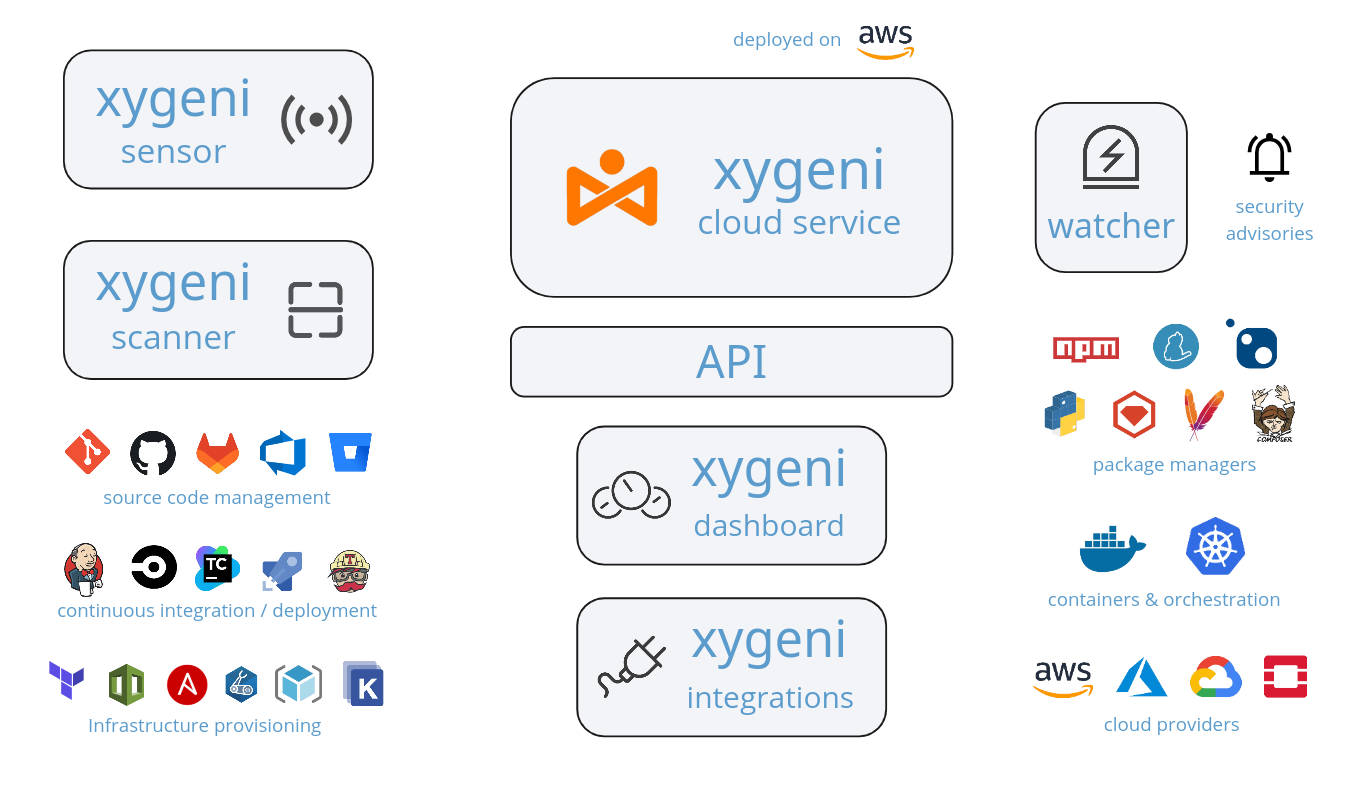
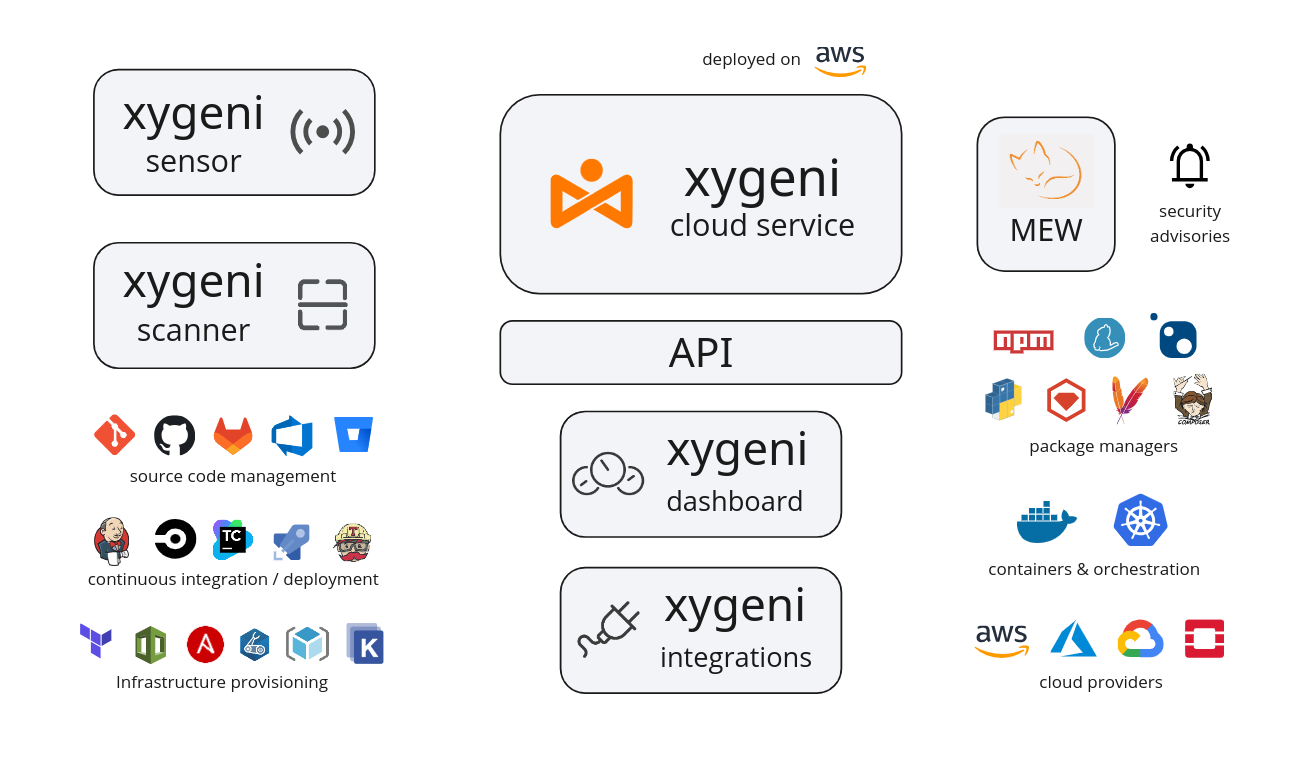
Test change to automate changing permalink code blocks in README.md, forcing checksum mismatch for all resources

diff --git a/README.md b/README.md
@@ -8,7 +8,7 @@
 
 [![documentation](https://img.shields.io/badge/documentation-blue.svg)](https://docs.xygeni.io/) 
 [![api documentation](https://img.shields.io/badge/api-reference-blue.svg)](https://api.xygeni.io/swagger-ui.html) 
-[![version](https://img.shields.io/badge/version-3.2-blue.svg)]() 
+[![version](https://img.shields.io/badge/version-4.33-blue.svg)]() 
 [![xygeni.io](https://img.shields.io/badge/website-blue.svg)](https://xygeni.io/)
 
 ## Overview
@@ -19,23 +19,21 @@ The platform protects the integrity and security of your software ecosystem thro
 
 The platform features:
 
-- **SDLC inventory**, which is automatically discovered from sources and configuration. The inventory enables us to know how assets in software infrastructure at the organization are related, for impact and risk propagation analysis: _"We can't protect what we don't know it exists."_
+- **Application Security Posture Management (ASPM)**, unifying risk management from code to cloud delivering real time visibility, prioritization, and remediation. 
 
-- **Code tampering prevention**, to protect critical code againt unintended changes done without following a strict change review process. 
+- **Code Security**, to protect critical code against malicious or unintended changes done without following a strict change review process. Vulnerabilities and malware in code are detected and prioritized. 
 
-- **Identify unusual activity**, anomalies in behaviour as evidence for a potential security breach, particularly when administering SDLC tools. Imagine a resource like a organization's private code repository: clones from unintended users or from anomalous geographic locations, adding-and-removing permissions in a short time period, deleting branch protection rules, or using admin rights to merge code without review or with failed status checks, are examples of such anomalies.
+- **Open Source Security** offers real-time monitoring of your dependencies to detect and mitigate threats before they impact your software. Both vulnerable and malicious dependencies are identified, qualified according to factors like reachability and exploitability, and prioritized for remediation.
 
-- **Software dependency analysis**, to control open source, proprietary and third-party components used throughout the software supply chain. This includes the discovery of components, detection of common attacks to the dependencies like typosquatting or dependency confusion, and extended SBOM management.
+- **Software Supply Chain Security (SSCS)** protects your CI/CD pipelines by scanning configuration files, build scripts, and CI job definitions. The software infrastructure, including code repositories, package managers, CI/CD systems and component registries, is scanned for misconfigurations to prevent potential supply chain attacks. It also evaluates compliance with existing SSCS standards, to enforce robust security practices.
 
-- **Detection of misconfigurations**, in source code managers, CI/CD pipelines and tools, build and deploy tools, artifact registries and package managers. Misconfigurations at these tools open the door to supply chain attacks, so a quick-and-easy detection capacity is necessary.   
+- **Build Security** protects the integrity of your software artifacts and build/deploy pipelines. Create and publish attestations, signed documents about a software artifact that contain an authenticated statement about its provenance and other properties. Consumers of the artifact can then verify the origin of the artifact, its integrity, and whether it conforms with a predefined policy. This could prevent a malicious actor from modifying the artifact or the build/deploy process, and state certain properties about the artifact at build time (such as the absence of known critical vulnerabilities).
 
-- **Detection of Secret leaks** with optional validation that the secret is currently active and detailed instructions on how to remove / revoke the hardcoded secrets found.
+- **Secrets Security** provides a robust defense against secrets leakage within the software development lifecycle. It scans, detects, and blocks the release of sensitive information such as passwords, API keys, and tokens in real time. It also provides optional validation that the secret is currently active, and automated / guided remediation (where possible) or detailed instructions on how to remove / revoke any hardcoded secrets found.
 
-- **Finding IaC flaws** in provisioning IT/Cloud templates, for the main IaC frameworks and configuration management tools. Common security flaws are reported before the assets are deployed at runtime.
+- **IaC Security** in provisioning IT/Cloud templates, for the main IaC frameworks and configuration management tools. Common security flaws are reported before the assets are deployed at runtime, with detailed remediation instructions.
 
-- **Hardening build systems** with attestations on software provenance, chain of build steps and augmented SBOM, that could be validated and checked against deploy policies when the build artifact needs to be deployed or used by a client.
-
-- **Compliance assessment** with common software supply chain standards and guidelines, like `Google SLSA`, `OpenSSF ScoreCard`, `CIS Software Supply Chain Security` benchmark, `OWASP Top-10 for CI/CD Security`, or the `ESF Securing SSC Guide for Developers`. Xygeni runs sort of automated audits on software projects for compliance assessment, were each standard is composed of a set of checkpoints to pass. The result tells us if the project complies with the standard, with a compliance level.
+- **Anomaly Detection** provides an additional layer of security by continuously monitoring and analyzing activity within your SCM and CI/CD infrastructure to quickly identify and respond to unusual behavior. Xygeni detects anomalies that indicate unauthorized changes, access, or exploits in real time. This proactive approach ensures that potential security breaches are addressed before they can escalate into serious threats.
 
 ## The platform components
 
@@ -53,7 +51,7 @@ The platform is a cloud-based service, accessible via REST API, that keeps findi
 
 **Integrations**: Xygeni provides ready-made integrations for running scans in CI/CD systems or uploading security issues, performing administrative operations, or exporting findings to communication and reporting tools.
 
-**Watcher**: Activity on public registries is monitored by Xygeni so potential attacks could be detected early. Publishing new packages in popular public repositories is an example of an activity that is monitored by Xygeni. In addition, security advisories are ingressed for modelling new threats and malicious activity on the wild. Xygeni customers may receive alerts when a security issue may affect them.
+**Malware Early Warning, MEW**: Activity on public registries is monitored by Xygeni so potential attacks could be detected early. Publishing new packages in popular public repositories is an example of an activity that is monitored by Xygeni. In addition, security advisories are ingressed for modelling new threats and malicious activity on the wild. Xygeni customers may receive alerts when a security issue may affect them.
 
 ## Installation
 
@@ -61,7 +59,7 @@ For operating with the Xygeni platform, you must have a valid user account linke
 
 > **NOTE**: Your organization must have a valid subscription with Xygeni Security. Please proceed to [how to subscribe to Xygeni](https://xygeni.io/book-a-demo) for further details.
 
-Follow the instructions provided in the [Xygeni Quick Start](https://docs.xygeni.io/xydocs/introduction/quick_start.html) section of the documentation.
+Follow the instructions provided in the [Getting Started](https://docs.xygeni.io/getting-started) section of the documentation.
 
 ## Current checksums
 
